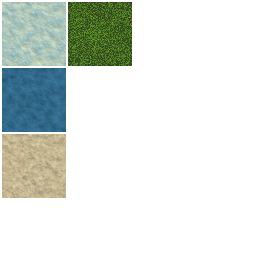
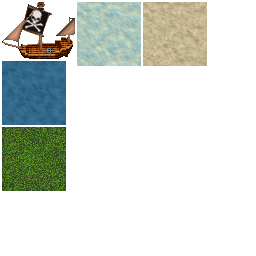
Banged my head against the wall with cameras and viewports for a few hours, then did this.  World coordinates for gamescreen are now working-ish.

Changed region(s): [[0.0, 0.0, 0.8125, 0.3125], [0.0, 0.4688, 0.2812, 0.7812], [0.0312, 0.3438, 0.0625, 0.375]]

diff --git a/core/src/com/timcamara/viking/VikingGame.java b/core/src/com/timcamara/viking/VikingGame.java
@@ -1,7 +1,7 @@
 package com.timcamara.viking;
 
 import com.badlogic.gdx.Game;
-import com.badlogic.gdx.graphics.OrthographicCamera;
+import com.badlogic.gdx.graphics.g2d.SpriteBatch;
 import com.badlogic.gdx.scenes.scene2d.Stage;
 import com.badlogic.gdx.utils.viewport.FitViewport;
 import com.timcamara.viking.screens.GameLossMenuScreen;
@@ -12,21 +12,31 @@ import com.timcamara.viking.screens.LevelWinMenuScreen;
 import com.timcamara.viking.screens.LoadingMenuScreen;
 import com.timcamara.viking.screens.PauseMenuScreen;
 import com.timcamara.viking.screens.TitleMenuScreen;
-import com.timcamara.viking.World;
 
 public class VikingGame extends Game {
 	// Used for debug output
 	public static boolean dev_mode = true;
 	
-	// Camera related variables
-	public static int         screen_width  = 960;
-	public static int         screen_height = 540;
-	public OrthographicCamera camera;
-	public FitViewport        viewport;
+	// Screen dimensions determine the actual pixel size of the game window
+	public static int screen_width  = 1280;
+	public static int screen_height = 720;
+	
+	// World dimensions determine the size of the game world in meters?
+	public static int world_width      = 100;
+	public static int world_height     = 100;
+	public static int pixels_per_meter = 64;
+	
+	// One viewport for menus, one for the game, since they use different camera dimensions
+	public FitViewport game_viewport;
+	public FitViewport menu_viewport;
+	
+	// Stage and SpriteBatch are heavy objects, so only instantiate one of them, and then re-use it
+	public Stage       stage;
+	public SpriteBatch batch;
 	
 	// Screens
-	public TitleMenuScreen     title_screen;
 	public LoadingMenuScreen   loading_screen;
+	public TitleMenuScreen     title_screen;
 	public PauseMenuScreen     pause_screen;
 	public LevelWinMenuScreen  level_win_screen;
 	public LevelLossMenuScreen level_loss_screen;
@@ -34,24 +44,25 @@ public class VikingGame extends Game {
 	public GameLossMenuScreen  game_loss_screen;
 	public GameScreen          game_screen;
 	
-	// This gets re-used for all screens
-	public Stage stage;
-	
-	// This handles loading and storing all of our assets
+	// Handles loading and storing all assets
 	public Assets assets;
 	
+	// Builds and maintains game world state
 	public World world;
 	
 	@Override
 	public void create () {
-		// Initialize the camera and viewport
-		camera   = new OrthographicCamera();
-		viewport = new FitViewport(VikingGame.screen_width, VikingGame.screen_height, camera);
-		viewport.apply(true);
+		// Initialize the menu viewport with screen coordinates
+		menu_viewport = new FitViewport(screen_width, screen_height);
+		
+		// Initialize the game viewport with world dimensions, and center the camera
+		game_viewport = new FitViewport(world_width, world_height);
+		game_viewport.apply(true);
 		
 		// Setup structure for the menu screens
 		assets = new Assets();
-        stage  = new Stage(viewport);
+		batch  = new SpriteBatch();
+        stage  = new Stage(menu_viewport, batch);
         
         // Bootstrap the assets for the loading screen
         assets.load_assets_loading();

diff --git a/core/src/com/timcamara/viking/screens/MenuScreen.java b/core/src/com/timcamara/viking/screens/MenuScreen.java
@@ -3,12 +3,15 @@ package com.timcamara.viking.screens;
 import com.badlogic.gdx.Gdx;
 import com.badlogic.gdx.ScreenAdapter;
 import com.badlogic.gdx.graphics.GL20;
+import com.badlogic.gdx.graphics.g2d.TextureAtlas.AtlasRegion;
 import com.badlogic.gdx.scenes.scene2d.InputListener;
 import com.badlogic.gdx.scenes.scene2d.Stage;
 import com.badlogic.gdx.scenes.scene2d.ui.Label;
 import com.badlogic.gdx.scenes.scene2d.ui.Skin;
 import com.badlogic.gdx.scenes.scene2d.ui.Table;
 import com.badlogic.gdx.scenes.scene2d.ui.TextButton;
+import com.badlogic.gdx.scenes.scene2d.utils.Drawable;
+import com.badlogic.gdx.scenes.scene2d.utils.TextureRegionDrawable;
 import com.timcamara.viking.VikingGame;
 
 public abstract class MenuScreen extends ScreenAdapter {
@@ -33,6 +36,8 @@ public abstract class MenuScreen extends ScreenAdapter {
     	// Add this screen's table back in
     	stage.addActor(table);
     	
+    	stage.setViewport(game.menu_viewport);
+    	
     	// Make sure the stage is listening to input
     	Gdx.input.setInputProcessor(stage);
     }
@@ -55,6 +60,7 @@ public abstract class MenuScreen extends ScreenAdapter {
         stage.getViewport().update(width, height, true);
     }
     
+    // TODO: Make this not stupid
     public void startGame() {
         game.setScreen(game.game_screen);
         dispose();
@@ -70,6 +76,8 @@ public abstract class MenuScreen extends ScreenAdapter {
         Gdx.app.exit();
     }
     
+    // Creates a table for the menu structure
+    // It's like web design circa 1999
     protected Table createTable() {
         Table table = new Table();
         table.setFillParent(true);
@@ -80,7 +88,8 @@ public abstract class MenuScreen extends ScreenAdapter {
         
         return table;
     }
-
+    
+    // Add a text string to the table, and give it some bottom padding for good measure
     protected Label createLabel(String text) {
         Label label = new Label(text, skin);
         
@@ -88,7 +97,8 @@ public abstract class MenuScreen extends ScreenAdapter {
         
         return label;
     }
-
+    
+    // Add a text-based button to the table, and give it some padding for good measure
     protected TextButton createButton(String text, InputListener inputListener) {
         TextButton button = new TextButton(text, skin);
         
@@ -97,5 +107,14 @@ public abstract class MenuScreen extends ScreenAdapter {
         table.add(button).pad(10);
         
         return button;
+    }
+    
+    // Add a background to the table
+    protected Drawable createBackground(AtlasRegion region) {
+    	Drawable drawable = new TextureRegionDrawable(region);
+    	
+    	table.background(drawable);
+    	
+    	return drawable;
     }
 }

diff --git a/core/src/com/timcamara/viking/systems/RenderSystem.java b/core/src/com/timcamara/viking/systems/RenderSystem.java
@@ -25,19 +25,21 @@ public class RenderSystem extends IteratingSystem {
 	private ComponentMapper<PositionComponent> position_mapper;
 	
 	@SuppressWarnings("unchecked")
-	public RenderSystem(VikingGame v_game) {
+	public RenderSystem(VikingGame viking_game) {
+		// Only entities that have a TextureComponent and a PositionComponent will be run through this system
 		super(Family.getFor(TextureComponent.class, PositionComponent.class));
 		
-		game = v_game;
-		viewport = game.viewport;
-		camera = viewport.getCamera();
+		// Get our render-related objects from the main game object to avoid re-instantiating them
+		game     = viking_game;
+		viewport = game.game_viewport;
+		camera   = viewport.getCamera();
+		batch    = game.batch;
 		
+		// Get our component mappers so we can retrieve objects in an efficient manner
 		texture_mapper  = ComponentMapper.getFor(TextureComponent.class);
 		position_mapper = ComponentMapper.getFor(PositionComponent.class);
 		
 		renderQueue = new Array<Entity>();
-		
-		batch = new SpriteBatch();
 	}
 
 	@Override
@@ -53,16 +55,16 @@ public class RenderSystem extends IteratingSystem {
 		for(int x = 0; x < game.world.map_heights.length; x++){
 			for(int y = 0; y < game.world.map_heights[x].length; y++){
 				if(game.world.map_heights[x][y] == 0){
-					batch.draw(game.assets.water_deep_region, x * 64, y * 64);
+					batch.draw(game.assets.water_deep_region, x * VikingGame.pixels_per_meter, y * VikingGame.pixels_per_meter);
 				}
 				else if (game.world.map_heights[x][y] == 1){
-					batch.draw(game.assets.water_shallow_region, x * 64, y * 64);
+					batch.draw(game.assets.water_shallow_region, x * VikingGame.pixels_per_meter, y * VikingGame.pixels_per_meter);
 				}
 				else if (game.world.map_heights[x][y] == 2){
-					batch.draw(game.assets.beach_region, x * 64, y * 64);
+					batch.draw(game.assets.beach_region, x * VikingGame.pixels_per_meter, y * VikingGame.pixels_per_meter);
 				}
 				else if (game.world.map_heights[x][y] == 3){
-					batch.draw(game.assets.grass_region, x * 64, y * 64);
+					batch.draw(game.assets.grass_region, x * VikingGame.pixels_per_meter, y * VikingGame.pixels_per_meter);
 				}
 			}
 		}

diff --git a/core/src/com/timcamara/viking/Assets.java b/core/src/com/timcamara/viking/Assets.java
@@ -8,10 +8,13 @@ public class Assets {
 	public AssetManager             asset_manager;
 	public Skin                     skin;
 	public TextureAtlas             atlas;
+	public TextureAtlas             menu_atlas;
 	public TextureAtlas.AtlasRegion water_deep_region;
 	public TextureAtlas.AtlasRegion water_shallow_region;
 	public TextureAtlas.AtlasRegion beach_region;
 	public TextureAtlas.AtlasRegion grass_region;
+	public TextureAtlas.AtlasRegion ship_region;
+	public TextureAtlas.AtlasRegion gradient_small;
 	
 	public Assets() {
 		asset_manager = new AssetManager();
@@ -22,11 +25,16 @@ public class Assets {
 		// Queue up the skin for loading
 		asset_manager.load("ui/uiskin.json", Skin.class);
 		
+		// Queue up the menu background for the loading screen
+		asset_manager.load("images/menu_pack.txt", TextureAtlas.class);
+		
 		// Force finish updating
 		asset_manager.finishLoading();
 		
 		// Store it!
-		skin = asset_manager.get("ui/uiskin.json", Skin.class);
+		skin           = asset_manager.get("ui/uiskin.json", Skin.class);
+		menu_atlas     = asset_manager.get("images/menu_pack.txt", TextureAtlas.class);
+		gradient_small = menu_atlas.findRegion("gradient_small");
 	}
 	
 	// Loads the main set of assets
@@ -42,11 +50,7 @@ public class Assets {
 		water_shallow_region = atlas.findRegion("water_shallow");
 		beach_region         = atlas.findRegion("sand");
 		grass_region         = atlas.findRegion("grass");
-		
-		VikingGame.print(water_deep_region.name);
-		VikingGame.print(water_shallow_region.name);
-		VikingGame.print(beach_region.name);
-		VikingGame.print(grass_region.name);
+		ship_region          = atlas.findRegion("ship");
 	}
 	
 	// Wrapper to make it easier to call the update function for the asset manager

diff --git a/core/src/com/timcamara/viking/screens/GameScreen.java b/core/src/com/timcamara/viking/screens/GameScreen.java
@@ -14,8 +14,8 @@ public class GameScreen extends ScreenAdapter {
     private Engine          engine;
     private FPSLogger       fps;
 
-    public GameScreen(VikingGame game) {
-        this.game = game;
+    public GameScreen(VikingGame viking_game) {
+        game = viking_game;
 
         // Create the engine for the Ashley ECS
         engine = new Engine();
@@ -29,16 +29,19 @@ public class GameScreen extends ScreenAdapter {
         }
     }
     
+    // Initializes all the systems
     private void start_systems() {
     	engine.addSystem(new RenderSystem(game));
         engine.addSystem(new MovementSystem());
     }
     
+    // Halts processing of the systems
     private void pause_systems() {
     	engine.getSystem(RenderSystem.class).setProcessing(false);
 		engine.getSystem(MovementSystem.class).setProcessing(false);
     }
     
+    // Resumes processing of halted systems
     private void resume_systems() {
     	engine.getSystem(RenderSystem.class).setProcessing(true);
 		engine.getSystem(MovementSystem.class).setProcessing(true);
@@ -68,8 +71,7 @@ public class GameScreen extends ScreenAdapter {
     
     @Override
     public void resize(int width, int height) {
-        game.camera.update();
-        game.viewport.update(width, height);
+        game.game_viewport.update(width, height);
     }
 
     @Override

diff --git a/core/src/com/timcamara/viking/screens/TitleMenuScreen.java b/core/src/com/timcamara/viking/screens/TitleMenuScreen.java
@@ -9,6 +9,8 @@ public class TitleMenuScreen extends MenuScreen {
     public TitleMenuScreen(VikingGame game) {
 		super(game);
 		
+		createBackground(game.assets.gradient_small);
+		
 		createLabel("Viking");
 
         table.row();

diff --git a/core/src/com/timcamara/viking/World.java b/core/src/com/timcamara/viking/World.java
@@ -8,8 +8,6 @@ public class World {
 	
 	public World() {
 		map_heights = generate_map_heights();
-		
-		VikingGame.print(get_map_dimensions().toString());
 	}
 	
 	public Vector2 get_map_dimensions() {
